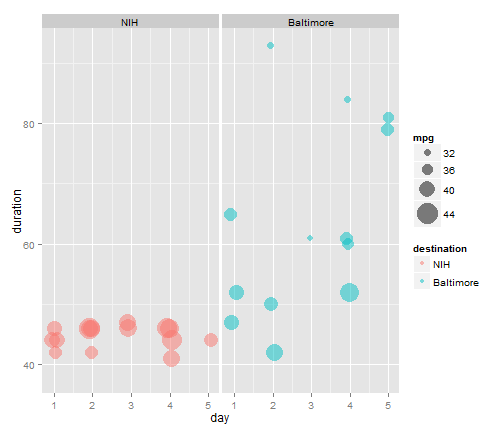
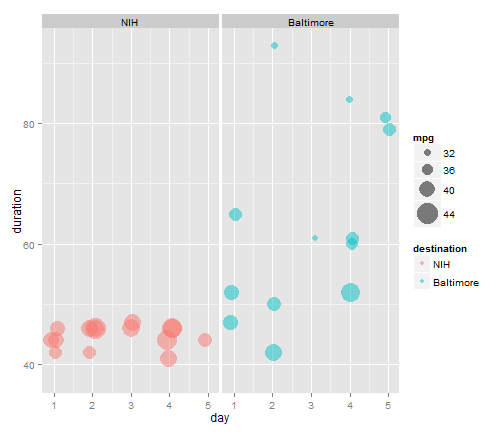
y axis explicit 6 numbers

diff --git a/readMe.md b/readMe.md
@@ -8,10 +8,7 @@ Looks like my commute to the NIH is more consistent than the ride home to Baltim
 Another look at fuel efficiency:
 
 
-
-```
-## Error: object 'duration' not found
-```
+![plot of chunk unnamed-chunk-2](figure/unnamed-chunk-2.png) 
 
 Without facetting:
 
